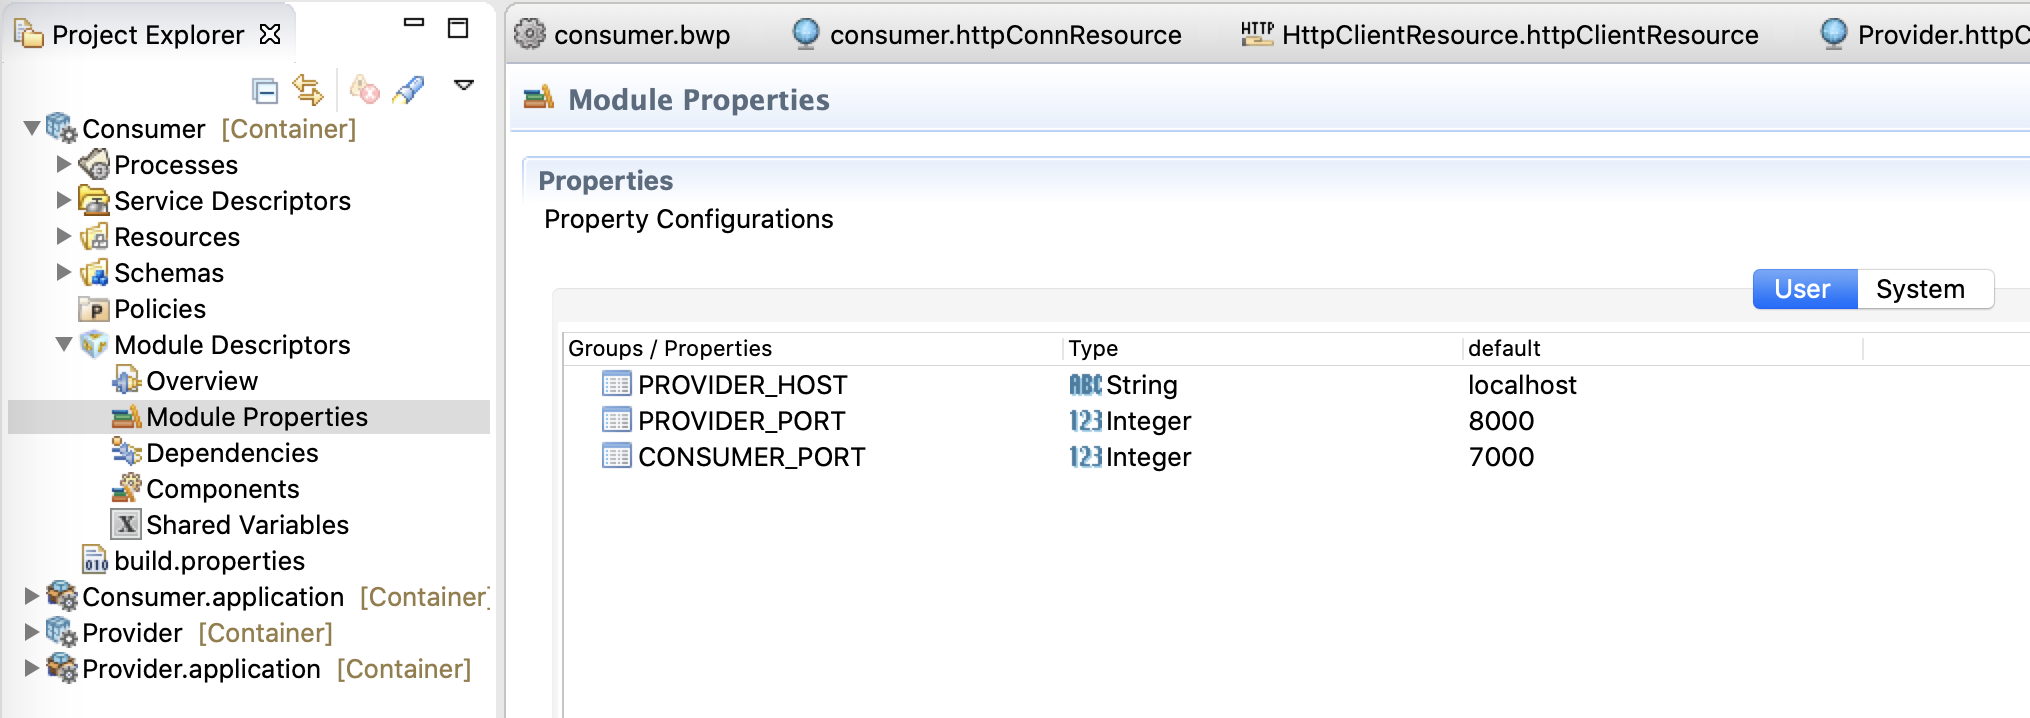
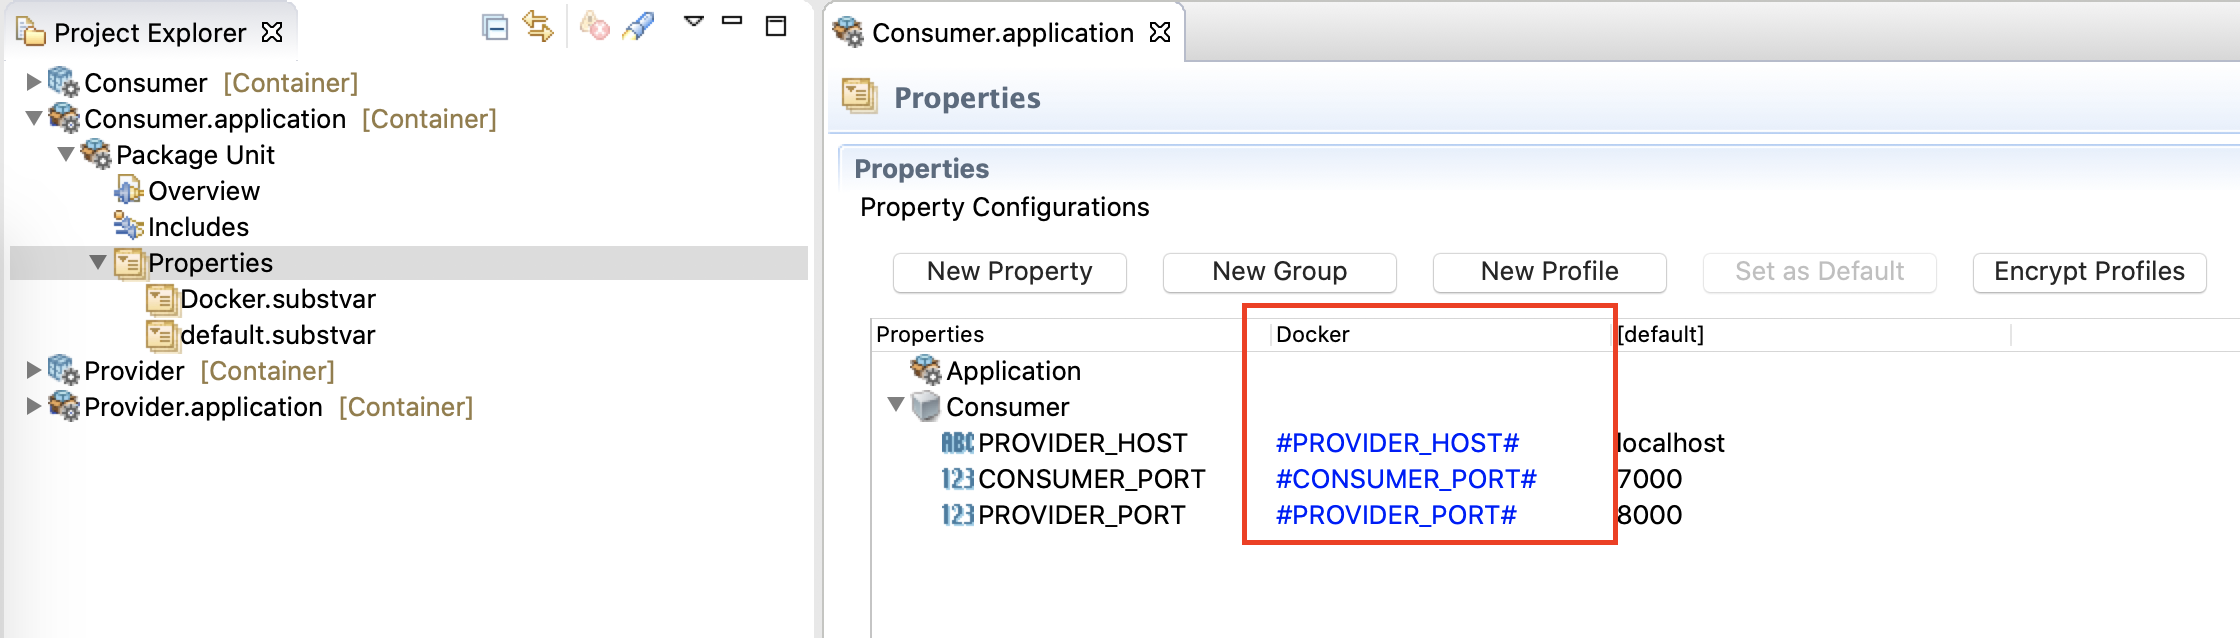
Initial commit

diff --git a/BWCE/3.BWCE_App_onDocker.md b/BWCE/3.BWCE_App_onDocker.md
@@ -111,8 +111,8 @@ Consumer와 Provider Application의 EAR 파일을 생성합니다.
 
 
 
-### 2.5 샘플 Application Docker Build
-#### 2.5.1 Provider Application Docker Build
+## 3 샘플 Application Docker Build
+### 3.1 Provider Application Docker Build
 1. Dockerfile 생성
 ```
 $ cat <<EOF | tee Dockerfile_Provider
@@ -126,6 +126,7 @@ ADD Provider.application_1.0.0.ear /
 EXPOSE 8000
 
 #환경변수 BWCE Module Property에 값 전달
+ENV BW_PROFILE Docker
 ENV PROVIDER_PORT 8000                    
 EOF
 ```
@@ -140,7 +141,7 @@ $ docker images
 ```
 
 
-#### 2.5.2 Consumer Application Docker Build
+### 3.2 Consumer Application Docker Build
 1. Dockerfile 생성
 ```
 $ cat <<EOF | tee Dockerfile_Consumer
@@ -148,12 +149,13 @@ $ cat <<EOF | tee Dockerfile_Consumer
 FROM tibco/bwce:latest        
 
 #Base Docker에 Copy할 EAR 파일 이름
-ADD Provider.application_1.0.0.ear /      
+ADD Consumer.application_1.0.0.ear /      
 
 #외부 오픈 포트 이름  
 EXPOSE 7000   
 
-#환경변수 BWCE Module Property에 값 전달                                          
+#환경변수 BWCE Module Property에 값 전달
+ENV BW_PROFILE Docker
 ENV PROVIDER_PORT 8000               
 #PROVIDER_HOST (Docker Host IP 혹은 Docker Link의 이름 )
 ENV PROVIDER_HOST provider-host           
@@ -163,15 +165,15 @@ EOF
 > ENV 환경 변수는 `docker run -e` 옵션을 통해서도 전달 가능하며, BWCE에서 기본으로 사용되는 환경 변수는 https://docs.tibco.com/pub/bwce/2.6.1/doc/html/GUID-25BD2BA4-6BA4-418C-98D4-6EB3C9196399.html 를 참조하시기 바랍니다.
 2. Docker Build
 ```bash
-$ docker build -t consumer:latest -t consumer:1.0 -f Dockerfile_Provider .
+$ docker build -t consumer:latest -t consumer:1.0 -f Dockerfile_Consumer .
 ```
 3. Docker image 결과 확인
 ```bash
 $ docker images
 ```
 
-### 2.6 샘플 Application Docker Run
-#### 2.6.1 Provider Application Docker Run
+## 4 샘플 Application Docker Run
+### 4.1 Provider Application Docker Run
 
 1. docker run 을 통한 container 실행
 
@@ -179,6 +181,7 @@ $ docker images
 $ sudo docker run -d -p 8000:8000 --name provider_1.0 provider:latest
 ```
 > `-p 8000:8000` Docker Host의 8000 port를 Container의 8000(REST HTTP Connector) port로 바인딩 합니다.
+> 
 > `-name provider_1.0` 실행되는 conatiner의 이름을 지정합니다.
 
 2. docker ps를 통한 container 실행 확인
@@ -197,17 +200,21 @@ $ curl -X GET "http://localhost:8000/provider?RequestID=testID" -H "accept: appl
 
 브라우저에서 [http://localhost:8000/swagger](http://localhost:8000/swagger) 로 접근
 
-#### 2.6.2 Consumer Application Docker Run
+### 4.2 Consumer Application Docker Run
 
 1. docker run 을 통한 container 실행
 
 ```bash
-$ sudo docker run -d -p 7000:7000 --name consumer_1.0 consumer:latest
+$ sudo docker run -d -p 7000:7000 --link=provider_1.0:provider-host --name consumer_1.0 consumer:latest
 ```
 > `-p 7000:7000` Docker Host의 7000 port를 Container의 7000(REST HTTP Connector) port로 바인딩 합니다.
+> 
 > `-name consumer_1.0` 실행되는 conatiner의 이름을 지정합니다.
+> 
+> `--link=provider_1.0:provider-host`를 사용하여 앞서 실행한 provier_1.0의 container를 provider-host 정보에 링크 시킵니다. 해당 옵션 대신 `-e PROVIDER_HOST=[Docker Host IP]`를 이용하여 PROVIDER_HOST Property 값을 바로 전달 가능합니다.
 
 2. docker ps를 통한 container 실행 확인
+
 ```bash
 $ sudo docker ps
 CONTAINER ID  IMAGE            COMMAND              CREATED          STATUS         PORTS                    NAMES
@@ -216,16 +223,38 @@ CONTAINER ID  IMAGE            COMMAND              CREATED          STATUS     
 ```
 
 3. crul 로 테스트
+
 ```bash
 $ curl -X GET "http://localhost:7000/consumer?RequestID=testID" -H "accept: application/json"
-{"Provider_Version":"V1.0","Message":"This is from Provider V1.0 for RequestID : testID"}
+{"Consumer_Version":"V1.0","Provider_Version":"V1.0","Message":"This is from Provider V1.0 for RequestID : testID"}
 ```
+
 4. swagger UI로 테스트
 
 브라우저에서 [http://localhost:7000/swagger](http://localhost:7000/swagger) 로 접근
 
-### 2.7 샘플 Application Docker Monitoring
+## 5. 샘플 Application Docker Monitoring
+
+### 5.1 Monitoring DB 저장소 생성
+
+1. `docker run`으로 Docker hub에서 PostgreSQL 이미지 다운 및 실행
+```bash
+docker run -d \
+    --name postgres_bwce_mon \
+    -e POSTGRES_USER=bwuser \
+    -e POSTGRES_PASSWORD=bwuser \
+    postgres
+```
+
+### 5.2 Monitoring 저장소 DB 생성
+
+1. `docker run`으로 Docker hub에서 PostgreSQL 이미지 다운 및 실행
+```bash
+docker run -d \
+    --name postgres_bwce_mon \
+    -e POSTGRES_USER=bwuser \
+    -e POSTGRES_PASSWORD=bwuser \
+    postgres
+```
 
 
-
-[http://localhost:8000/swagger]: 

diff --git a/BWCE/1.Prerequisites.md b/BWCE/1.Prerequisites.md
@@ -246,7 +246,7 @@ $ sudo swapoff -a
 
 ##### 3.4.2.3 kubernetes 설치
 
-Kubernetes YUM repository 등록
+1. Kubernetes YUM repository 등록
 ```bash
 $ cat <<EOF | sudo tee /etc/yum.repos.d/kubernetes.repo
 [kubernetes]
@@ -260,14 +260,14 @@ exclude=kubelet kubeadm kubectl
 EOF
 ```
 
-SELinux 모드 변경
+2. SELinux 모드 변경
 
 ```bash
 $ sudo setenforce 0
 $ sudo sed -i 's/^SELINUX=enforcing$/SELINUX=permissive/' /etc/selinux/config
 ```
 
-Kubernetes 설치
+3. Kubernetes 설치
 
 ```bash
 $ sudo yum install -y kubelet kubeadm kubectl --disableexcludes=kubernetes
@@ -283,7 +283,8 @@ kubectl : 클러스터와 통신하는 커맨드라인 인터페이스 유틸입
   
 
 #### 3.4.3  Cluster 구성 - Master Node 
-control-plane 초기화
+
+1. control-plane 초기화
 
 ```bash
 $ sudo kubeadm init --pod-network-cidr=10.244.0.0/16
@@ -322,7 +323,7 @@ kubeadm join 172.31.54.195:6443 --token 75zx8f.y2lxd7mgtsr3vv69 \
 
   
 
-`kubectl` 사용을 위한 디폴트 kube config 파일 설정
+2. `kubectl` 사용을 위한 디폴트 kube config 파일 설정
 
 ```bash
 $ mkdir -p $HOME/.kube
@@ -333,7 +334,7 @@ $ sudo chown $(id -u):$(id -g) $HOME/.kube/config
 
   
 
-CNI(Container Network Interface) 설정
+3. CNI(Container Network Interface) 설정
 ```bash
 $ kubectl apply -f https://raw.githubusercontent.com/coreos/flannel/master/Documentation/kube-flannel.yml
 ```
@@ -353,7 +354,8 @@ kubeadm join 172.31.54.195:6443 --token 75zx8f.y2lxd7mgtsr3vv69 \
 
 
 #### 3.4.5  Cluster 구성 검증
-Node 구성 정보 확인
+
+1. Node 구성 정보 확인
 ```bash
 $ kubectl get nodes
 NAME                                               STATUS   ROLES                  AGE   VERSION
@@ -362,7 +364,7 @@ ip-172-31-56-200.ap-northeast-2.compute.internal   Ready    <none>              
 ip-172-31-62-29.ap-northeast-2.compute.internal    Ready    control-plane,master   34d   v1.20.2
 ```
 
-System Pods 정보 확인
+2. System Pods 정보 확인
 ```bash
 $ kubectl get pods --all-namespaces
 NAMESPACE     NAME                                                                       READY   STATUS    RESTARTS   AGE
@@ -380,13 +382,13 @@ kube-system   kube-scheduler-ip-172-31-54-195.ap-northeast-2.compute.internal   
 
 #### 3.4.6  Kubernetes Dashboard 설정 (옵션)
 
-Dashboard 설치
+1. Dashboard 설치
 ```bash
 $ kubectl apply -f https://raw.githubusercontent.com/kubernetes/dashboard/v2.1.0/aio/deploy/recommended.yaml
 ```
 > 상세 설치 가이드는 https://github.com/kubernetes/dashboard/blob/master/README.md#getting-started 를 참조하시기 바랍니다.
 
-Dashboard 접속할 Client에서 Dashboard Proxy 연결
+2. Dashboard 접속할 Client에서 Dashboard Proxy 연결
 ```bash
 $ kubectl proxy
 Starting to serve on 127.0.0.1:8001
@@ -401,7 +403,7 @@ Starting to serve on 127.0.0.1:8001
 
   
 
-Dashboard 접속 토큰 생성
+3. Dashboard 접속 토큰 생성
 
 - serviceaccount 생성
 
@@ -480,8 +482,8 @@ kubeadm init phase certs apiserver --apiserver-cert-extra-sans ip-172-31-62-29.a
 instance -> action -> network ->Change source/destination checks 
 
 <img src="./img/disable_destination_check1.png" width ="50%" >
-  
-  
+
+
 Source/destination checking -> stop 체크
 
 <img src="./img/disable_destination_check2.png" width ="50%" >
@@ -493,9 +495,9 @@ Source/destination checking -> stop 체크
 
 All traffic, All TCP, All UDP 가 아닌 `IP in IP` Protocol 명시적 추가 필요 
 ![custom protocol](./img/custom_protocol.png)
+
   
-  
-  
+
 ### 3.5 Kubernetes Cloud 서비스 사용
 각 Cloud 벤더에서는 Kubernetes Cluster를 메뉴얼하게 설정하지 않고 바로 사용할수 있는 Kubernetes PaaS 서비스를 제공하고 있습니다.
 
